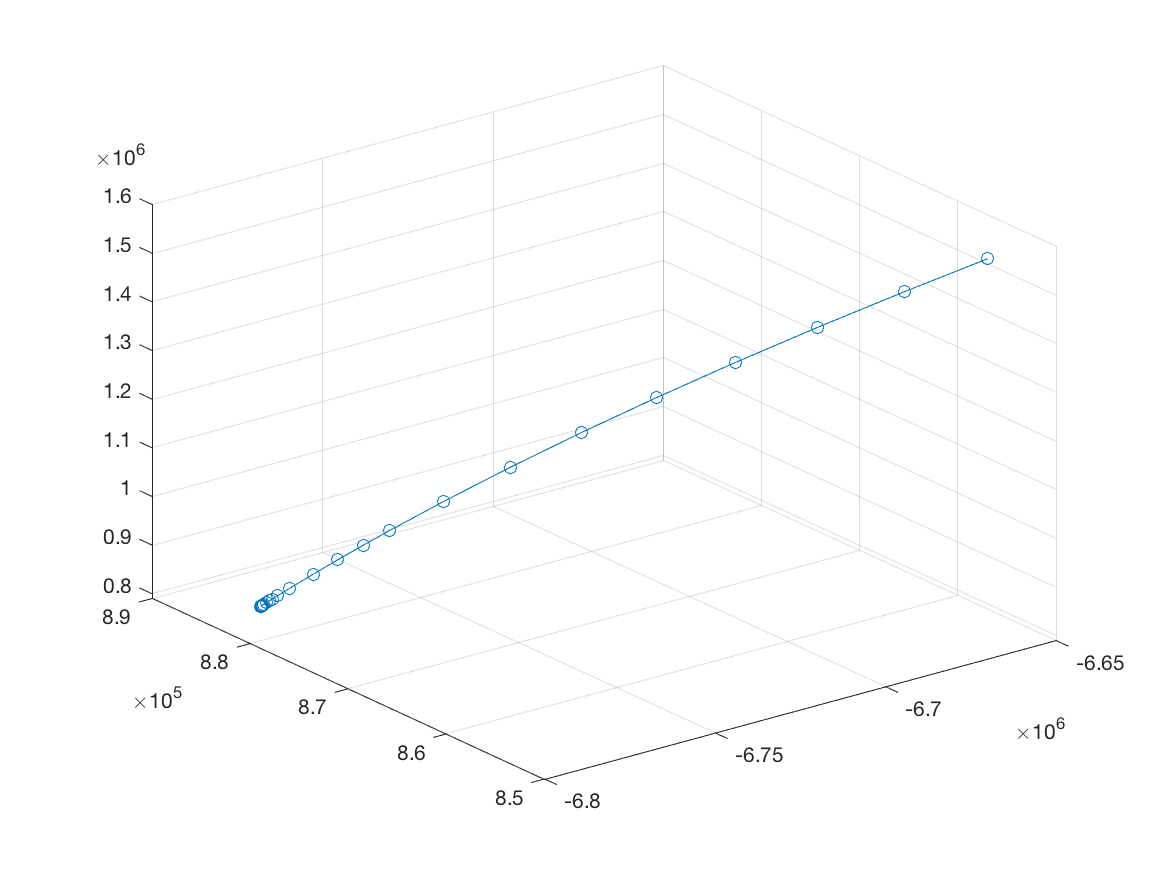
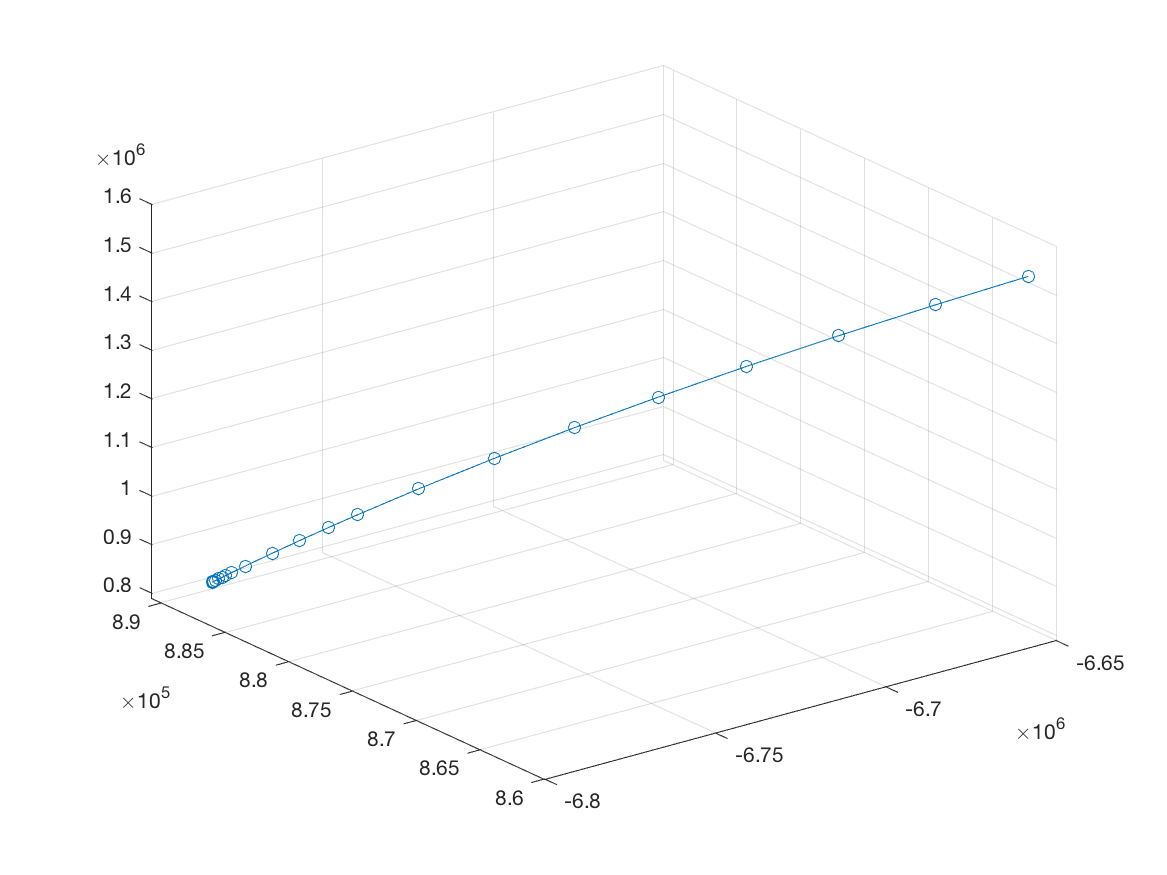
fixed test

diff --git a/MATLAB/test/test_true_orbit_propogator.m b/MATLAB/test/test_true_orbit_propogator.m
@@ -4,47 +4,21 @@ config();
 data = csvread('graceClean.csv',1,0);
 
 %duration of the mission you want to simulate
-num_states = 100; %1.5 hours i.e approximately 1 orbit %length(data) for 1 day
+num_states = 13*60*60; %1.5 hours i.e approximately 1 orbit %length(data) for 1 day
 
 global const
 
 starttime = utl_grace2pantime(data(1,1));
+startr_ecef= data(1,2:4)';
+startv_ecef= data(1,8:10)';
+stoptime= starttime+num_states;
+stopr_ecef= data(1+num_states,2:4)';
+stopv_ecef= data(1+num_states,8:10)';
+[startr_eci, startv_eci] = ECEFtoECI(starttime,startr_ecef,startv_ecef);
+[stopr_eci, stopv_eci] = ECEFtoECI(stoptime,stopr_ecef,stopv_ecef);
 
-%convert to from ECEF --> ECI
-for i = 1:num_states+1
-   %GRACE time is gps_time in continuous seconds past 01-Jan-2000 11:59:47 UTC
-   
-   %convert GRACE time to PAN time
-   %pantime = utl_grace2pantime(data(i,1));
-   pantime = starttime + 1;
-   starttime = pantime;
-   [r_ECI, v_ECI] = ECEFtoECI(pantime,data(i,2:4)',data(i,8:10)');
 
-   %[r_ECI, v_ECI] = ECEFtoECI(data(i,1),data(i,2:4)',data(i,8:10)');
-   
-   data(i,2:4) = r_ECI; %convert position in ECEF to ECI
-   data(i,8:10) = v_ECI; %convert velocity in ECEF to ECI
-end
 
-fprintf('converted GRACE data from ECEF --> ECI \n')
-
-%getting orbital elements for GRACE
-orb_elemsg = zeros(length(data),10); 
-t_array = linspace(data(1,1),data(1,1)+length(data),1);
-for count = 1:length(data)
-    rf  = data(count,2:4)'; %new position 
-    vf = data(count,8:10)'; %new velocity 
-    %quatf = states(count,7:10); %new quaternions
-
-    %calculate orbital elements
-    [a, eMag, i, O, o, nu, truLon, argLat, lonPer, p] = utl_rv2orb(rf, vf, const.mu);
-    orb_elemsg(count,1) = a*1E3; orb_elemsg(count,2) = eMag; orb_elemsg(count,3) = i;
-    orb_elemsg(count,4) = O; orb_elemsg(count,5) = o; orb_elemsg(count,6) = nu;
-    orb_elemsg(count,7) = truLon; orb_elemsg(count,8) = argLat; orb_elemsg(count,9) = lonPer;
-    orb_elemsg(count,10) = p*1E3;
-end
-
-fprintf('got GRACE orbital elements \n')
 
 %%%%%%%%%%%%%%%%%%%%%%%%%%%%%%%%%%%%%%%%%%%%%%%%%%%%%%%%%%%%
 %test cases: [drag solrad 3rdbodymoon 3rdbodysun numberofJ's]
@@ -54,221 +28,16 @@ fprintf('got GRACE orbital elements \n')
 
 
 %simplest model, J2 only
-tic
-perturbs.drag = 1;
+perturbs.drag = 0;
 perturbs.solrad = 0;
-perturbs.bodmoon = 1;
-perturbs.bodsun = 1;
+perturbs.bodmoon = 0;
+perturbs.bodsun = 0;
 perturbs.numJs = 10;
 
-[t_array1, states1, orb_elemsf1] = true_orbit_propagator(data(1,2:4), data(1,8:10), data(1,1), num_states, perturbs);
+[t_array1, states1, orb_elemsf1] = true_orbit_propagator(startr_eci, startv_eci, starttime, num_states, perturbs);
+[r_final,v_final]  = true_orbit_propagator3(startr_ecef, startv_ecef, starttime, num_states, perturbs);
+[finalr_eci, finalv_eci] = ECEFtoECI(stoptime,r_final,v_final);
 % err1 = get_error(data, states1);
-error_r= data(num_states+1,2:4)-states1(end,1:3)
-saveas(gcf,'test1.png')
-time1 = toc;
+error_r= stopr_eci-states1(end,1:3)'
+states1(end,1:3)'-finalr_eci
 
-% %J4
-% tic
-% perturbs.drag = 0;
-% perturbs.solrad = 0;
-% perturbs.bodmoon = 0;
-% perturbs.bodsun = 0;
-% perturbs.numJs = 4;
-% 
-% [t_array2, states2, orb_elemsf2] = true_orbit_propagator(data(1,2:4), data(1,8:10), data(1,1), num_states, perturbs);
-% err2 = get_error(data, states2);
-% saveas(gcf,'test2.png')
-% time2 = toc;
-%  
-% %J6
-% tic
-% perturbs.drag = 0;
-% perturbs.solrad = 0;
-% perturbs.bodmoon = 0;
-% perturbs.bodsun = 0;
-% perturbs.numJs = 6;
-% 
-% [t_array3, states3, orb_elemsf3] = true_orbit_propagator(data(1,2:4), data(1,8:10), data(1,1), num_states, perturbs);
-% err3 = get_error(data, states3);
-% saveas(gcf,'test3.png')
-% time3 = toc;
-% 
-% %J8
-% tic
-% perturbs.drag = 0;
-% perturbs.solrad = 0;
-% perturbs.bodmoon = 0;
-% perturbs.bodsun = 0;
-% perturbs.numJs = 8;
-% 
-% [t_array4, states4, orb_elemsf4] = true_orbit_propagator(data(1,2:4), data(1,8:10), data(1,1), num_states, perturbs);
-% err4 = get_error(data, states4);
-% saveas(gcf,'test4.png')
-% time4 = toc;
-% 
-%J10
-% tic
-% perturbs.drag = 1;
-% perturbs.solrad = 0;
-% perturbs.bodmoon = 0;
-% perturbs.bodsun = 0;
-% perturbs.numJs = 10;
-% 
-% [t_array5, states5, orb_elemsf5] = true_orbit_propagator(data(1,2:4), data(1,8:10), data(1,1), num_states, perturbs);
-% err5 = get_error(data, states5);
-% saveas(gcf,'test5.png')
-% time5 = toc;
-% 
-% %test drag
-% tic
-% perturbs.drag = 1;
-% perturbs.solrad = 0;
-% perturbs.bodmoon = 0;
-% perturbs.bodsun = 0;
-% perturbs.numJs = 10;
-% 
-% [t_array6, states6, orb_elemsf6] = true_orbit_propagator(data(1,2:4), data(1,8:10), data(1,1), num_states, perturbs);
-% err6 = get_error(data, states6);
-% saveas(gcf,'test6.png')
-% time6 = toc;
-% 
-% 
-% %test solrad
-% tic
-% perturbs.drag = 0;
-% perturbs.solrad = 1;
-% perturbs.bodmoon = 0;
-% perturbs.bodsun = 0;
-% perturbs.numJs = 10;
-% 
-% [t_array7, states7, orb_elemsf7] = true_orbit_propagator(data(1,2:4), data(1,8:10), data(1,1), num_states, perturbs);
-% err7 = get_error(data, states7);
-% saveas(gcf,'test7.png')
-% time7 = toc;
-% 
-% %test 3rd body moon
-% tic
-% perturbs.drag = 0;
-% perturbs.solrad = 0;
-% perturbs.bodmoon = 1;
-% perturbs.bodsun = 0;
-% perturbs.numJs = 10;
-% 
-% [t_array8, states8, orb_elemsf8] = true_orbit_propagator(data(1,2:4), data(1,8:10), data(1,1), num_states, perturbs);
-% err8 = get_error(data, states8);
-% saveas(gcf,'test8.png')
-% time8 = toc;
-% 
-% %test 3rd body sun
-% tic
-% perturbs.drag = 0;
-% perturbs.solrad = 0;
-% perturbs.bodmoon = 0;
-% perturbs.bodsun = 1;
-% perturbs.numJs = 10;
-% 
-% [t_array9, states9, orb_elemsf9] = true_orbit_propagator(data(1,2:4), data(1,8:10), data(1,1), num_states, perturbs);
-% err9 = get_error(data, states9);
-% saveas(gcf,'test9.png')
-% time9 = toc;
-% 
-% %high fidelity
-% tic
-% perturbs.drag = 1;
-% perturbs.solrad = 1;
-% perturbs.bodmoon = 1;
-% perturbs.bodsun = 1;
-% perturbs.numJs = 10;
-% 
-% [t_array10, states10, orb_elemsf10] = true_orbit_propagator(data(1,2:4), data(1,8:10), data(1,1), num_states, perturbs);
-% err10 = get_error(data, states10);
-% saveas(gcf,'test10.png')
-% time10 = toc;
-
-% getPlots(t_array,orb_elemsg) 
-% getPlots(t_array,orb_elemsf1) 
-% getPlots(t_array,orb_elemsf10) 
-
-
-%%%%compare true orbital states with GRACE states
-function err = get_error(data, states)
-    err = zeros(length(states),6);
-    %[xerr, yerr, zerr, xdoterr, ydoterr, zdoterr]
-    
-    for i = 1:length(states)        
-
-        err(i,1) = abs(data(i,2)-states(i,1)); %diff in position in m
-        err(i,2) = abs(data(i,3)-states(i,2));
-        err(i,3) = abs(data(i,4)-states(i,3));
-        err(i,4) = abs(data(i,8)-states(i,4)); %diff in velocity in m/s
-        err(i,5) = abs(data(i,9)-states(i,5));
-        err(i,6) = abs(data(i,10)-states(i,6));
-  
-    end
-end
-
-function getPlots(t_array,orb_elemsf) 
-    %%%%%%%%%%%%%%%%%%%%%%%%%%%%%%%%%%%%%%%%PLOTS for true orbit propogator
-    figure(2)
-    
-    subplot(5,2,1)
-    loglog(t_array,orb_elemsf(:,1),'LineWidth',1);                     
-    ylabel('a'); 
-    xlabel('time (s)'); 
-    title('a semi major axis');
-    
-    subplot(5,2,2)
-    loglog(t_array,orb_elemsf(:,2),'LineWidth',1);                    
-    ylabel('eMag'); 
-    xlabel('time (s)');
-    title('eccentricity');
-    
-    subplot(5,2,3)
-    loglog(t_array,orb_elemsf(:,3),'LineWidth',1);                   
-    ylabel('i radians'); 
-    xlabel('time (s)');
-    title('i inclination radians');
-    
-    subplot(5,2,4)
-    loglog(t_array,orb_elemsf(:,4),'LineWidth',1);                     
-    ylabel('O radians'); 
-    xlabel('time (s)');
-    title('O RAAN radians'); 
-    
-    subplot(5,2,5)
-    loglog(t_array,orb_elemsf(:,5),'LineWidth',1);                     
-    ylabel('o radians'); 
-    xlabel('time (s)');
-    title('o argument of perigee radians');
-    
-    subplot(5,2,6)
-    loglog(t_array,orb_elemsf(:,6),'LineWidth',1);                     
-    ylabel('M radians'); 
-    xlabel('time (s)');
-    title('M mean anomaly radians');
-    
-    subplot(5,2,7)
-    loglog(t_array,orb_elemsf(:,7),'LineWidth',1);                   
-    ylabel('trueLon radians'); 
-    xlabel('time (s)');
-    title('trueLon true longitude radians'); 
-    
-    subplot(5,2,8)
-    loglog(t_array,orb_elemsf(:,8),'LineWidth',1);                
-    ylabel('argLat radians'); 
-    xlabel('time (s)');
-    title('argLat radians');
-    
-    subplot(5,2,9)
-    loglog(t_array,orb_elemsf(:,9),'LineWidth',1);                      
-    ylabel('lonPer radians'); 
-    xlabel('time (s)');
-    title('lonPer radians'); 
-    
-    subplot(5,2,10)
-    loglog(t_array,orb_elemsf(:,10),'LineWidth',1);                     
-    ylabel('p'); 
-    xlabel('time (s)');
-    title('p semilatus rectum');
-
-end

diff --git a/MATLAB/true_orbit_propagator3.m b/MATLAB/true_orbit_propagator3.m
@@ -102,7 +102,7 @@ function [r_final,v_final] = true_orbit_propagator2(r,v,start_time,duration, per
     %secular perturbations from Moon (third body in circular orbit)
     %returns acceleration in ECEF0
     if perturbs.bodmoon == 1
-        times= (1:N-0.5)*dt+start_time;
+        times= ((1:N)-0.5)*dt+start_time;
         jdates = juliandate(utl_time2datetime(times,const.INITGPS_WN)); 
         [rp_earth_moons_eci,~] = planetEphemeris(jdates','Moon','Earth','421');
         %rp_earth_moon = utl_rotateframe(quat_ecef0_eci,1E3*rp_earth_moon'); %positional vector from Moon to Earth; used for 3rd body perturb calcs
@@ -112,7 +112,7 @@ function [r_final,v_final] = true_orbit_propagator2(r,v,start_time,duration, per
     %secular perturbations from Sun (third body in circular orbit)
     %returns acceleration in ECEF0
     if perturbs.bodsun == 1
-        times= (1:N-0.5)*dt+start_time;
+        times= ((1:N)-0.5)*dt+start_time;
         jdates = juliandate(utl_time2datetime(times,const.INITGPS_WN)); 
         [rp_earths_eci,~] = planetEphemeris(jdates','Sun','Earth','421');
         %rp_earth = utl_rotateframe(quat_ecef0_eci,1E3*rp_earth'); %positional vector from Sun to Earth; used for 3rd body perturb and solar radiation pressure calcs

diff --git a/MATLAB/environmental_models/env_earth_attitude.m b/MATLAB/environmental_models/env_earth_attitude.m
@@ -6,8 +6,9 @@ global const
 rate_ecef=const.earth_rate_ecef;
 quat_ecef0p_ecef0= [const.PRECESSION_RATE*time; 1.0;];
 quat_ecef0p_ecef0= quat_ecef0p_ecef0/norm(quat_ecef0p_ecef0);
-theta= const.earth_rate_ecef(3)*time;% earth rotation angle
-quat_ecef_ecef0p= [0;0;sin(theta/2);cos(theta/2);];
+earth_axis= const.earth_rate_ecef/norm(const.earth_rate_ecef);
+theta= norm(const.earth_rate_ecef)*time;% earth rotation angle
+quat_ecef_ecef0p= [earth_axis*sin(theta/2);cos(theta/2);];
 quat_ecef0_eci=const.quat_ecef0_eci;
 quat_ecef_eci=utl_quat_cross_mult(quat_ecef_ecef0p,utl_quat_cross_mult(quat_ecef0p_ecef0,quat_ecef0_eci));
 end

diff --git a/MATLAB/true_orbit_propagator.m b/MATLAB/true_orbit_propagator.m
@@ -13,8 +13,8 @@ function [t_array, states, orb_elemsf] = true_orbit_propagator(r,v,start_time,du
     
     
     %create tarray
-    opts = odeset('RelTol', 1E-12, 'AbsTol', 1E-3, 'OutputFcn','odephas3');
-    tspan = [0:1000:duration,duration];
+    opts = odeset('RelTol', 1E-12, 'AbsTol', 1E-4, 'OutputFcn','odephas3');
+    tspan = [0,duration];
     [t_array, states] = ode113(@state_dot, tspan, state0, opts, perturbs, start_time);
     %statef = utl_ode2(@state_dot,[current_time,(current_time + delta_time)],state0);
     
